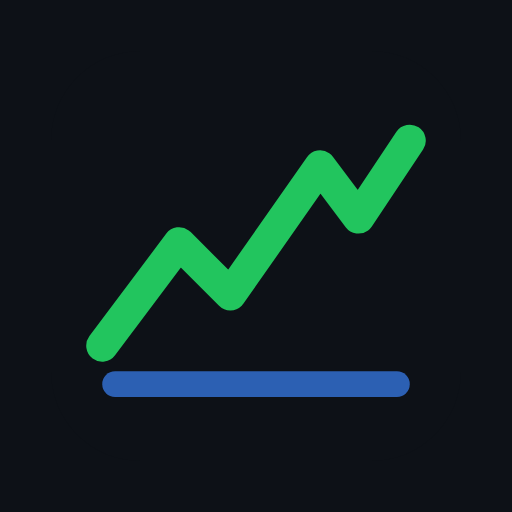
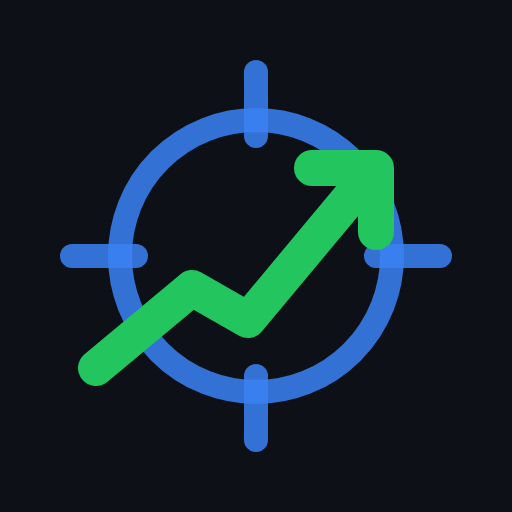
Byter namn till Trendjakt, med ny logga (sikte och stigande pil)
Claude-Session: https://claude.ai/code/session_01Euj93ZzpSSbQBtTzRwizxv

Changed region(s): [[0.0938, 0.0938, 0.9062, 0.9062]]

diff --git a/public/index.html b/public/index.html
@@ -4,20 +4,20 @@
   <meta charset="utf-8">
   <meta name="viewport" content="width=device-width, initial-scale=1, viewport-fit=cover">
   <meta name="theme-color" content="#0d1117">
-  <title>OMX Analys</title>
+  <title>Trendjakt</title>
   <link rel="icon" href="icon.svg" type="image/svg+xml">
   <link rel="manifest" href="manifest.webmanifest">
   <link rel="apple-touch-icon" href="apple-touch-icon.png">
   <meta name="apple-mobile-web-app-capable" content="yes">
   <meta name="mobile-web-app-capable" content="yes">
-  <meta name="apple-mobile-web-app-title" content="OMX Analys">
+  <meta name="apple-mobile-web-app-title" content="Trendjakt">
   <link rel="stylesheet" href="style.css">
 </head>
 <body>
   <header class="top">
     <div class="brand">
       <img src="icon.svg" alt="" width="26" height="26">
-      <span>OMX Analys</span>
+      <span>Trendjakt</span>
     </div>
     <div class="top-right">
       <span id="updated" class="muted"></span>
@@ -281,7 +281,7 @@
   <div id="terms" class="terms" hidden role="dialog" aria-modal="true" aria-labelledby="terms-title">
     <div class="terms-box">
       <h2 id="terms-title">Innan du börjar</h2>
-      <p>Signalerna i OMX Analys tas fram automatiskt av datorprogram utifrån historiska kurser och annan offentlig data.
+      <p>Signalerna i Trendjakt tas fram automatiskt av datorprogram utifrån historiska kurser och annan offentlig data.
         De är inte investeringsrådgivning och inte en uppmaning att köpa eller sälja något värdepapper.</p>
       <p>Det är alltid du som bestämmer om du gör en affär. <b>Du ansvarar själv för alla beslut, och för alla vinster och
         förluster</b> som följer av dem. Appen och den som driver den tar inget ansvar för vad som händer om du väljer att

diff --git a/server.js b/server.js
@@ -1196,7 +1196,7 @@ export default async function handler(req, res) {
     if (url.pathname === '/api/push/unsubscribe' && req.method === 'POST') { await unsubscribe((await readJson(req)).endpoint); return send(res, 200, { ok: true }); }
     if (url.pathname === '/api/push/test' && req.method === 'POST') {
       const { endpoint } = await readJson(req);
-      const n = await pushAll({ title: 'OMX Analys', body: 'Notiserna fungerar. Du får besked om köpsignaler, mål, stopp och säljdagar.', url: '/' }, { only: endpoint });
+      const n = await pushAll({ title: 'Trendjakt', body: 'Notiserna fungerar. Du får besked om köpsignaler, mål, stopp och säljdagar.', url: '/' }, { only: endpoint });
       return send(res, 200, { ok: n > 0 });
     }
     if (url.pathname === '/api/us/scan') {
@@ -1365,7 +1365,7 @@ export default async function handler(req, res) {
 // Lokalt (npm start) körs en vanlig server. På Vercel används handler som
 // serverlös funktion via api/index.js.
 if (process.argv[1] && import.meta.url === pathToFileURL(process.argv[1]).href) {
-  http.createServer(handler).listen(PORT, () => console.log(`OMX Analys körs på http://localhost:${PORT}`));
+  http.createServer(handler).listen(PORT, () => console.log(`Trendjakt körs på http://localhost:${PORT}`));
   // Kör skannern varje timme så att signaler loggas även när ingen har appen öppen.
   setInterval(() => { cache.delete('scan'); scan().catch(err => console.error('Skanningen misslyckades:', err.message)); }, 60 * 60 * 1000).unref();
 }

diff --git a/public/sw.js b/public/sw.js
@@ -1,8 +1,8 @@
 // Service worker för webbnotiser: visar notisen och öppnar appen vid klick.
 self.addEventListener('push', event => {
   let m = {};
-  try { m = event.data ? event.data.json() : {}; } catch { m = { title: 'OMX Analys', body: event.data?.text() }; }
-  event.waitUntil(self.registration.showNotification(m.title || 'OMX Analys', {
+  try { m = event.data ? event.data.json() : {}; } catch { m = { title: 'Trendjakt', body: event.data?.text() }; }
+  event.waitUntil(self.registration.showNotification(m.title || 'Trendjakt', {
     body: m.body || '', icon: '/icon-192.png', badge: '/icon-192.png', tag: m.tag, renotify: !!m.tag, data: { url: m.url || '/' },
   }));
 });
